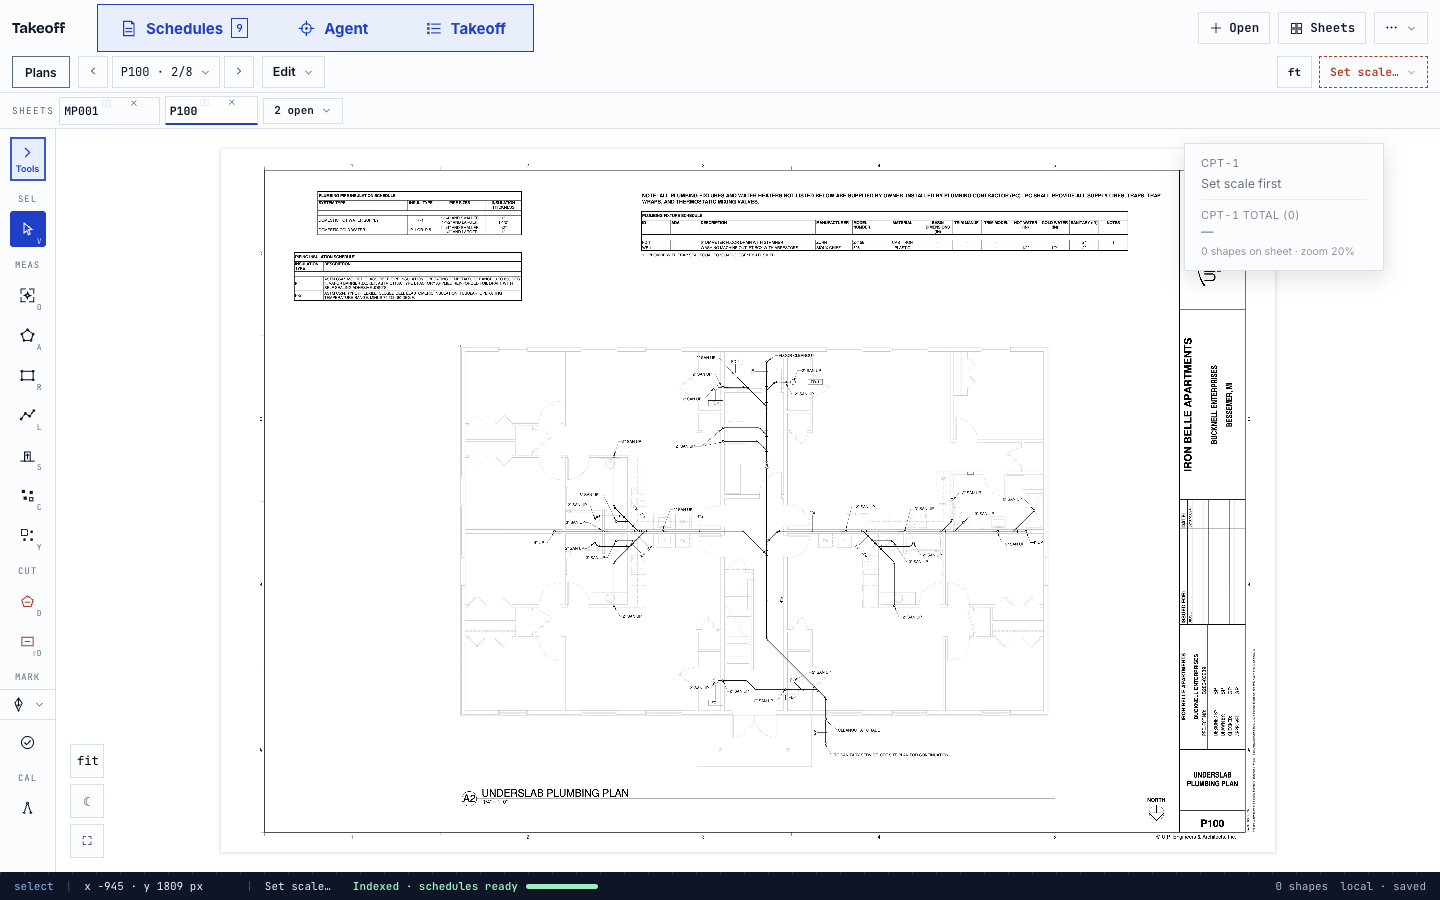
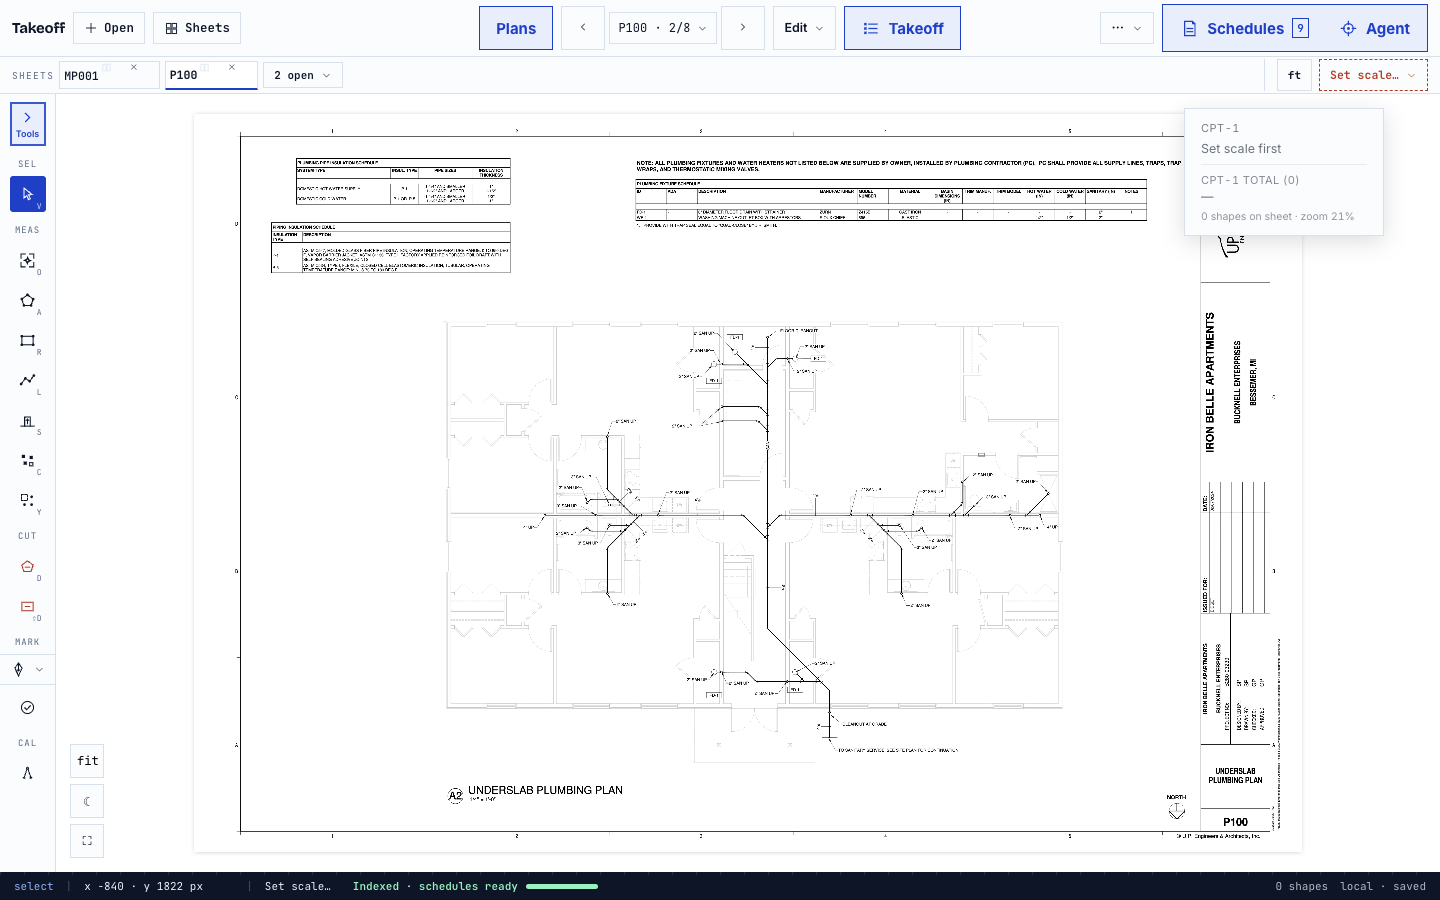
UI: center plan navigation and anchor workflows right
User-directed presentation revision: Open and Sheets left; larger Plans/page/Edit/Takeoff controls geometrically centered; prominent Schedules and Agent group right; units and scale moved into the sheet-tab row. No handler, extraction, Session, table/citation/bbox, persistence, or export changes. Browser workspace verification: 190 checks, zero errors across 1280-2560 widths.

diff --git a/opentakeoff/web/src/pages/TakeoffCanvas.jsx b/opentakeoff/web/src/pages/TakeoffCanvas.jsx
@@ -10614,30 +10614,10 @@ export default function TakeoffCanvas() {
       <input name="takeoff-import" ref={importInputRef} type="file" accept=".json,application/json" style={{ display: "none" }}
         onChange={(e) => { importTakeoffFile(e.target.files?.[0]); e.target.value = ""; }} />
       {!focusMode && (
-      <div data-topbar className="workspace-topbar" style={{ display: "flex", flexDirection: "column", gap: 5, alignItems: "stretch", padding: "6px 14px 6px", borderBottom: "1px solid var(--ink-faint)", background: "var(--paper-bright)", whiteSpace: "nowrap" }}>
-        <div data-topbar-deck="1" style={{ display: "flex", gap: 7, alignItems: "center", minWidth: 0 }}>
+      <div data-topbar className="workspace-topbar" style={{ display: "grid", padding: "6px 14px", borderBottom: "1px solid var(--ink-faint)", background: "var(--paper-bright)", whiteSpace: "nowrap" }}>
+        <div data-topbar-deck="1" className="workspace-header-row" style={{ display: "grid", alignItems: "center", minWidth: 0 }}>
+          <div className="workspace-file-nav">
         <strong style={{ fontFamily: "var(--f-display)", fontSize: 15, color: "var(--ink)", letterSpacing: "-0.02em" }}>Takeoff</strong>
-        <nav className="workspace-primary" aria-label="Workspace">
-          <button type="button" data-workspace-nav="Schedules" aria-pressed={schedulesOpen} onClick={() => { setAgentOpen(false); setSchedulesOpen(true); }}><Icon name="document" size={19} /><span>Schedules</span>{graphTables.length > 0 && <small>{graphTables.length}</small>}</button>
-          <button type="button" data-workspace-nav="Agent" aria-pressed={agentOpen && !schedulesOpen} onClick={() => { setSchedulesOpen(false); clearScheduleBrowseHighlights(); setAgentOpen(true); }}><Icon name="target" size={19} /><span>Agent</span>{(agentRunning || agentProposals.length > 0) && <small>{agentRunning ? "running" : agentProposals.length + " pending"}</small>}</button>
-        {/* name="open-takeoff", like sheet-file / agent-goal: the Playwright
-            driver used to reach for this with a text regex, which also matched
-            the rail's Takeoff button, picked the one the open Agent panel
-            covers, and hung 120s on click actionability before reporting the
-            Takeoff panel as broken. It was never broken. */}
-        <button onClick={() => setShowTakeoffData(true)} name="open-takeoff" data-workspace-nav="Takeoff" aria-pressed={showTakeoffData}
-          title="Open Takeoff — finished takeoff + workflow aggregate from every Agent run, with CSV / Excel / PDF export."
-          style={{
-            padding: "8px 14px", border: "none",
-            background: finishedTakeoffLineCount || agentTakeoffRows.length ? "var(--cobalt)" : "var(--ink-faint)",
-            color: finishedTakeoffLineCount || agentTakeoffRows.length ? "var(--paper-bright)" : "var(--ink-muted)",
-            cursor: "pointer", fontWeight: 700, fontFamily: "var(--f-mono)", fontSize: 11,
-            letterSpacing: "0.12em", textTransform: "uppercase",
-          }}>
-          <Icon name="takeoffs" size={19} /><span>Takeoff</span>{(finishedTakeoffLineCount > 0 || agentTakeoffRows.length > 0) && <small>{finishedTakeoffLineCount || "data"}</small>}
-        </button>
-        </nav>
-        <div style={{ flex: 1 }} />
         <button type="button" onClick={() => fileInputRef.current?.click()} title="Open plans — PDF, image, or a .zip plan set (or just drag them onto the canvas)"
           style={{ display: "inline-flex", alignItems: "center", gap: 6, padding: "6px 10px", border: "1px solid var(--ink-faint)", background: "transparent", color: "var(--ink)", cursor: "pointer", fontWeight: 600, fontSize: 12.5, lineHeight: 1 }}>
           <Icon name="plus" size={14} />Open</button>
@@ -10646,11 +10626,8 @@ export default function TakeoffCanvas() {
           style={{ display: "inline-flex", alignItems: "center", gap: 6, padding: "6px 10px", border: `1px solid ${sheetGroup.length ? "var(--cobalt)" : "var(--ink-faint)"}`, background: sheetGroup.length ? "var(--cobalt)" : "transparent", color: sheetGroup.length ? "var(--paper-bright)" : "var(--ink)", cursor: "pointer", fontWeight: 600, fontSize: 12.5, lineHeight: 1 }}>
           <Icon name="sheets" size={15} />Sheets
         </button>
-        <span data-topbar-pinned style={{ display: "inline-flex", alignItems: "center", gap: 7, flexShrink: 0 }}>
-        {renderTopbarPinned()}
-        </span>
-        </div>
-        <div data-topbar-scroll style={{ display: "flex", gap: 7, alignItems: "flex-end", minWidth: 0, overflowX: "auto", overflowY: "hidden", scrollbarWidth: "thin", overscrollBehaviorX: "contain" }}>
+          </div>
+          <div data-topbar-scroll className="workspace-center-nav">
           <button type="button" data-workspace-nav="Plans" aria-pressed={!schedulesOpen && !agentOpen && !showTakeoffData && !showReport} onClick={() => { setAgentOpen(false); setSchedulesOpen(false); clearScheduleBrowseHighlights(); setView("canvas"); }}>Plans</button>
         {sheets.length > 0 && (
           <span style={{ display: "inline-flex", alignItems: "center", gap: 4 }}>
@@ -10691,25 +10668,32 @@ export default function TakeoffCanvas() {
             ]}
           />
         </>)}
-        <div style={{ flex: 1 }} />
-        {/* Scale and units remain in the sheet-context row. */}
-        {cluster(`Scale — ${ellipsize(labelFor(focusPanel), 22)}`,
-          <>
-            <button onClick={() => setUnits((u) => (u === "metric" ? "imperial" : "metric"))}
-              title={units === "metric" ? "Metric display (m² / m) — click for imperial. Calibrate in meters; 1:50-style scales in the list. Display only — stored takeoffs never change." : "Imperial display (SF / LF) — click for metric (m² / m, calibrate in meters, 1:50-style scales). Display only — stored takeoffs never change."}
-              style={{ padding: "6px 10px", border: `1px solid ${units === "metric" ? "var(--cobalt)" : "var(--ink-faint)"}`, background: units === "metric" ? "var(--cobalt)" : "transparent", color: units === "metric" ? "var(--paper-bright)" : "var(--ink)", cursor: "pointer", fontWeight: 700, fontFamily: "var(--f-mono)", fontSize: 11, lineHeight: 1 }}>
-              {units === "metric" ? "m" : "ft"}
-            </button>
-            <ToolMenu
-              title={scaleTitle}
-              onOpenChange={onScaleMenuDepth}
-              face={<span>{scaleFace}</span>}
-              faceStyle={{ fontFamily: "var(--f-mono)", fontSize: 11.5, ...scaleFaceStyle }}
-              menuStyle={{ minWidth: 250 }}
-              items={scaleItems}
-            />
-          </>
-        )}
+        {/* name="open-takeoff", like sheet-file / agent-goal: the Playwright
+            driver used to reach for this with a text regex, which also matched
+            the rail's Takeoff button, picked the one the open Agent panel
+            covers, and hung 120s on click actionability before reporting the
+            Takeoff panel as broken. It was never broken. */}
+        <button onClick={() => setShowTakeoffData(true)} name="open-takeoff" data-workspace-nav="Takeoff" aria-pressed={showTakeoffData}
+          title="Open Takeoff — finished takeoff + workflow aggregate from every Agent run, with CSV / Excel / PDF export."
+          style={{
+            padding: "8px 14px", border: "none",
+            background: finishedTakeoffLineCount || agentTakeoffRows.length ? "var(--cobalt)" : "var(--ink-faint)",
+            color: finishedTakeoffLineCount || agentTakeoffRows.length ? "var(--paper-bright)" : "var(--ink-muted)",
+            cursor: "pointer", fontWeight: 700, fontFamily: "var(--f-mono)", fontSize: 11,
+            letterSpacing: "0.12em", textTransform: "uppercase",
+          }}>
+          <Icon name="takeoffs" size={19} /><span>Takeoff</span>{(finishedTakeoffLineCount > 0 || agentTakeoffRows.length > 0) && <small>{finishedTakeoffLineCount || "data"}</small>}
+        </button>
+          </div>
+          <div className="workspace-workflow-nav">
+        <span data-topbar-pinned style={{ display: "inline-flex", alignItems: "center", gap: 7, flexShrink: 0 }}>
+        {renderTopbarPinned()}
+        </span>
+            <nav className="workspace-primary" aria-label="Workspace">
+          <button type="button" data-workspace-nav="Schedules" aria-pressed={schedulesOpen} onClick={() => { setAgentOpen(false); setSchedulesOpen(true); }}><Icon name="document" size={19} /><span>Schedules</span>{graphTables.length > 0 && <small>{graphTables.length}</small>}</button>
+          <button type="button" data-workspace-nav="Agent" aria-pressed={agentOpen && !schedulesOpen} onClick={() => { setSchedulesOpen(false); clearScheduleBrowseHighlights(); setAgentOpen(true); }}><Icon name="target" size={19} /><span>Agent</span>{(agentRunning || agentProposals.length > 0) && <small>{agentRunning ? "running" : agentProposals.length + " pending"}</small>}</button>
+            </nav>
+          </div>
         </div>
       </div>
       )}
@@ -10747,6 +10731,26 @@ export default function TakeoffCanvas() {
               items={openTabs.map((k) => ({ id: k, icon: "document", label: tabLabel(k), active: sheetGroup.length ? sheetGroup.includes(k) : k === sheetKey, onSelect: () => goToSheet(k) }))}
             />
           )}
+          <div className="workspace-sheet-scale">
+        {/* Scale and units remain in the sheet-context row. */}
+        {cluster(`Scale — ${ellipsize(labelFor(focusPanel), 22)}`,
+          <>
+            <button onClick={() => setUnits((u) => (u === "metric" ? "imperial" : "metric"))}
+              title={units === "metric" ? "Metric display (m² / m) — click for imperial. Calibrate in meters; 1:50-style scales in the list. Display only — stored takeoffs never change." : "Imperial display (SF / LF) — click for metric (m² / m, calibrate in meters, 1:50-style scales). Display only — stored takeoffs never change."}
+              style={{ padding: "6px 10px", border: `1px solid ${units === "metric" ? "var(--cobalt)" : "var(--ink-faint)"}`, background: units === "metric" ? "var(--cobalt)" : "transparent", color: units === "metric" ? "var(--paper-bright)" : "var(--ink)", cursor: "pointer", fontWeight: 700, fontFamily: "var(--f-mono)", fontSize: 11, lineHeight: 1 }}>
+              {units === "metric" ? "m" : "ft"}
+            </button>
+            <ToolMenu
+              title={scaleTitle}
+              onOpenChange={onScaleMenuDepth}
+              face={<span>{scaleFace}</span>}
+              faceStyle={{ fontFamily: "var(--f-mono)", fontSize: 11.5, ...scaleFaceStyle }}
+              menuStyle={{ minWidth: 250 }}
+              items={scaleItems}
+            />
+          </>
+        )}
+          </div>
         </div>
       )}
 

diff --git a/opentakeoff/web/src/styles/workspace.css b/opentakeoff/web/src/styles/workspace.css
@@ -2,28 +2,51 @@
 .workspace-topbar {
   flex-shrink: 0;
   padding: var(--sp-1) var(--sp-3) !important;
-  gap: var(--sp-1) !important;
 }
-.workspace-topbar [data-topbar-deck] { min-height: calc(var(--sp-6) * 2); gap: var(--sp-2) !important; }
-.workspace-topbar [data-topbar-scroll] { align-items: center !important; min-height: var(--ctl-m); gap: var(--sp-2) !important; }
-.workspace-topbar [data-workspace-nav="Plans"] {
-  display: inline-flex; align-items: center; padding: var(--sp-1) var(--sp-3);
+.workspace-header-row {
+  grid-template-columns: minmax(0, 1fr) auto minmax(0, 1fr);
+  column-gap: var(--sp-4); min-height: calc(var(--sp-6) * 2);
+}
+.workspace-file-nav, .workspace-center-nav, .workspace-workflow-nav {
+  display: flex; align-items: center; min-width: 0;
+}
+.workspace-file-nav { justify-self: start; gap: var(--sp-2); }
+.workspace-center-nav { justify-self: center; justify-content: center; gap: var(--sp-2); }
+.workspace-workflow-nav { justify-self: end; justify-content: flex-end; gap: var(--sp-2); }
+.workspace-center-nav > [data-workspace-nav="Plans"] {
+  display: inline-flex; align-items: center; justify-content: center;
+  min-height: var(--topbar-h); padding: var(--sp-2) var(--sp-4);
   border: var(--rule-soft); background: var(--paper-bright); color: var(--ink-soft);
-  font: 600 var(--fs-s) var(--f-body);
+  font: 650 var(--fs-l) var(--f-body);
 }
-.workspace-topbar [data-workspace-nav="Plans"][aria-pressed="true"] { border-color: var(--ink-muted); color: var(--ink); }
+.workspace-center-nav > [data-workspace-nav="Plans"][aria-pressed="true"] { border-color: var(--cobalt); background: var(--tint-select); color: var(--cobalt); }
+.workspace-center-nav > span { flex-shrink: 0; }
+.workspace-center-nav > span > button,
+.workspace-center-nav .workspace-tool-cluster button,
+.workspace-center-nav .workspace-tool-cluster select { min-height: var(--topbar-h); }
+.workspace-center-nav > span > button { min-width: var(--topbar-h); }
+.workspace-center-nav .workspace-tool-cluster > span:last-child { gap: 0 !important; }
+.workspace-center-nav [name="open-takeoff"] {
+  display: inline-flex; align-items: center; justify-content: center; gap: var(--sp-2);
+  min-height: var(--topbar-h); padding: var(--sp-2) var(--sp-4) !important;
+  border: 1px solid var(--cobalt) !important; background: var(--tint-select) !important;
+  color: var(--cobalt) !important; font: 650 var(--fs-l) var(--f-body) !important;
+  letter-spacing: normal !important; text-transform: none !important;
+}
+.workspace-center-nav [name="open-takeoff"][aria-pressed="true"] { background: var(--cobalt) !important; color: var(--accent-contrast) !important; }
+.workspace-center-nav [name="open-takeoff"] small { font: 600 var(--fs-xs) var(--f-mono); }
 .workspace-topbar button, .workspace-topbar select, .workspace-topbar input { min-height: var(--ctl-m); }
 .workspace-tool-cluster { flex-direction: row !important; align-items: center !important; gap: var(--sp-1) !important; }
 .workspace-tool-cluster > span:first-child { display: none; }
 .workspace-tool-cluster[data-context-label] { flex-direction: column !important; }
 .workspace-tool-cluster[data-context-label] > span:first-child { display: block; }
 .workspace-primary {
-  display: flex; align-items: stretch; gap: var(--sp-1); margin-left: var(--sp-6);
+  display: flex; align-items: stretch; gap: var(--sp-1); margin: 0;
   background: var(--tint-select); padding: var(--sp-1); border: 1px solid var(--cobalt);
 }
 .workspace-primary button {
   display: inline-flex; align-items: center; justify-content: center; gap: var(--sp-2);
-  min-height: var(--ctl-l); min-width: calc(var(--sp-8) * 4); padding: var(--sp-2) var(--sp-4) !important;
+  min-height: var(--ctl-l); min-width: calc(var(--sp-8) * 3); padding: var(--sp-2) var(--sp-3) !important;
   border: 1px solid transparent !important; background: transparent !important;
   color: var(--cobalt) !important; font: 650 var(--fs-l) var(--f-body) !important;
   letter-spacing: normal !important; text-transform: none !important;
@@ -45,6 +68,11 @@
 .workspace-sheet-tabs [data-sheet-tab-strip] { flex-wrap: nowrap !important; overflow-x: auto !important; }
 .workspace-sheet-tabs [data-sheet-tab] { padding: 0 var(--sp-1) !important; gap: 2px !important; }
 .workspace-sheet-tabs button { min-height: var(--ctl-s); min-width: var(--ctl-s); }
+.workspace-sheet-scale {
+  display: flex; align-items: center; flex-shrink: 0; margin-left: auto;
+  padding-left: var(--sp-3); border-left: var(--rule-soft);
+}
+.workspace-sheet-scale :is(button,select) { min-height: var(--ctl-m); }
 .workspace-condition-tools {
   position: relative; border: var(--rule-soft); padding: var(--sp-3) !important;
 }
@@ -245,18 +273,24 @@
   .agent-answer-record::details-content, .agent-answer-long-heading::details-content { content-visibility: visible; }
 }
 @media (max-width: 1399px) {
-  .workspace-primary { margin-left: var(--sp-3); }
+  .workspace-header-row { column-gap: var(--sp-2); }
+  .workspace-file-nav, .workspace-center-nav, .workspace-workflow-nav { gap: var(--sp-1); }
+  .workspace-primary button { min-width: 84px; padding-inline: var(--sp-2) !important; }
+  .workspace-center-nav > [data-workspace-nav="Plans"], .workspace-center-nav [name="open-takeoff"] { padding-inline: var(--sp-3) !important; }
 }
 @media (max-width: 1199px) {
+  .workspace-header-row { grid-template-columns: minmax(0,1fr) auto; row-gap: var(--sp-1); }
+  .workspace-file-nav { grid-column: 1; grid-row: 1; }
+  .workspace-workflow-nav { grid-column: 2; grid-row: 1; }
+  .workspace-center-nav { grid-column: 1 / -1; grid-row: 2; }
   .workspace-dock { position: absolute; inset: 0; width: auto; max-width: none; z-index: 10; }
   .workspace-resize, .workspace-dock-tools { display: none; }
   .schedule-master-detail { grid-template-columns: 260px minmax(0,1fr); }
   .agent-thread, .agent-composer { width: 100%; }
 }
 @media (max-width: 900px) {
-  .workspace-topbar [data-topbar-deck] { flex-wrap: wrap; }
-  .workspace-primary { order: -1; width: 100%; }
-  .workspace-primary button { flex: 1; }
+  .workspace-file-nav strong { display: none; }
+  .workspace-primary button { min-width: 72px; }
   .workspace-dock { min-width: 0; }
   .schedule-master-detail { grid-template-columns: 180px minmax(0,1fr); }
 }

diff --git a/opentakeoff/docs/ui-workspace/PRIMARY_TOOLBAR_REVIEW.md b/opentakeoff/docs/ui-workspace/PRIMARY_TOOLBAR_REVIEW.md
@@ -4,8 +4,10 @@ User-directed follow-up to #89. Baseline: `dec0151f` on main.
 
 ## Layout
 
-- Schedules, Agent and Takeoff form the prominent, labeled primary group.
-- Plans and sheet navigation share a compact context row with Edit, units and scale.
+- Open and Sheets anchor the left side of one header row.
+- Plans, previous/current/next sheet, Edit and Takeoff form the larger centered navigation spine.
+- Schedules and Agent retain prominent labeled treatments on the far right.
+- Units and scale moved to the far right of the sheet-tab row.
 - The left rail's Tools tab reveals a second column. Zone, Snap, angle guides,
   labels, Command, Voice and contextual Finish/Create actions moved here.
 - Condition properties and the former right-edge utility buttons live in this
@@ -35,7 +37,7 @@ Agent and export handlers were not rewritten.
 
 ## Verification
 
-`playwright-workspace.mjs`: **166 checks passed**, zero browser errors.
+`playwright-workspace.mjs`: **190 checks passed**, zero browser errors.
 Sizes: 1280×800, 1440×900, 1920×1080 and 2560×1440. Includes original schedule
 headers/cells, citation payloads, Agent Run/Stop/proposal callbacks, resizing,
 focus mode, flyout positioning, draft retention, toggle state, utility routing

diff --git a/opentakeoff/CHANGELOG.md b/opentakeoff/CHANGELOG.md
@@ -4,7 +4,7 @@ All notable changes to OpenTakeoff. Dates are release/merge dates on `main`.
 
 ## Unreleased — workspace presentation
 
-- Emphasize Schedules, Agent and Takeoff in a prominent primary navigation group. Keep Plans, sheet navigation, Edit, units and scale in the compact context row.
+- Center the larger Plans, page, Edit and Takeoff controls between Open/Sheets on the left and a prominent Schedules/Agent group on the right. Move units and scale to the sheet-tab row.
 - Add a left-rail Tools tab that opens a second column for drafting controls, condition properties and the former right-edge utility panels. Preserve the drawing footprint, command drafts, original callbacks and keyboard shortcuts.
 - Remove Report from primary navigation; keep Takeoff exports and the legacy Measurement report in the overflow menu.
 - Give Schedules a sheet navigator, search/facets and full extracted-cell grids with internal scrolling.

diff --git a/opentakeoff/docs/USER_GUIDE.md b/opentakeoff/docs/USER_GUIDE.md
@@ -10,9 +10,11 @@ In a hurry, or already in the app? Press **`?`** (or the **?** button in the top
 
 ### Workspace navigation
 
-Use **Schedules · Agent · Takeoff** in the highlighted group at the top of the canvas.
-**Plans** in the sheet-context row returns to the drawing. Sheets opens the existing sheet gallery; the sheet
-strip still switches, groups and closes drawings.
+The canvas header keeps **Open · Sheets** on the left; centers the larger
+**Plans · sheet navigation · Edit · Takeoff** controls; and anchors the highlighted
+**Schedules · Agent** group on the right. Plans returns to the drawing. Sheets opens
+the existing sheet gallery; the sheet strip still switches, groups and closes drawings.
+Units and scale live at the right end of that sheet strip.
 
 Schedules and Agent share the primary dock: opening one hides the other, but
 hiding Agent does not stop a running task. Drag the dock's left edge to resize,

diff --git a/opentakeoff/README.md b/opentakeoff/README.md
@@ -36,8 +36,9 @@ what makes it training data.
 
 ## Start here
 
-The canvas workspace puts **Schedules · Agent · Takeoff** in a prominent primary
-navigation group. Plans, sheet navigation, Edit, units and scale sit below it.
+The canvas header keeps **Open · Sheets** on the left; centers the larger
+**Plans · sheet navigation · Edit · Takeoff** controls; and anchors the prominent
+**Schedules · Agent** group on the right. Units and scale sit on the sheet-tab row.
 The left rail's **Tools** tab opens a second column for drawing settings,
 condition properties and project panels; it never resizes the drawing.
 Takeoff retains its exports; the legacy report is under **⋯ → Measurement report**.
